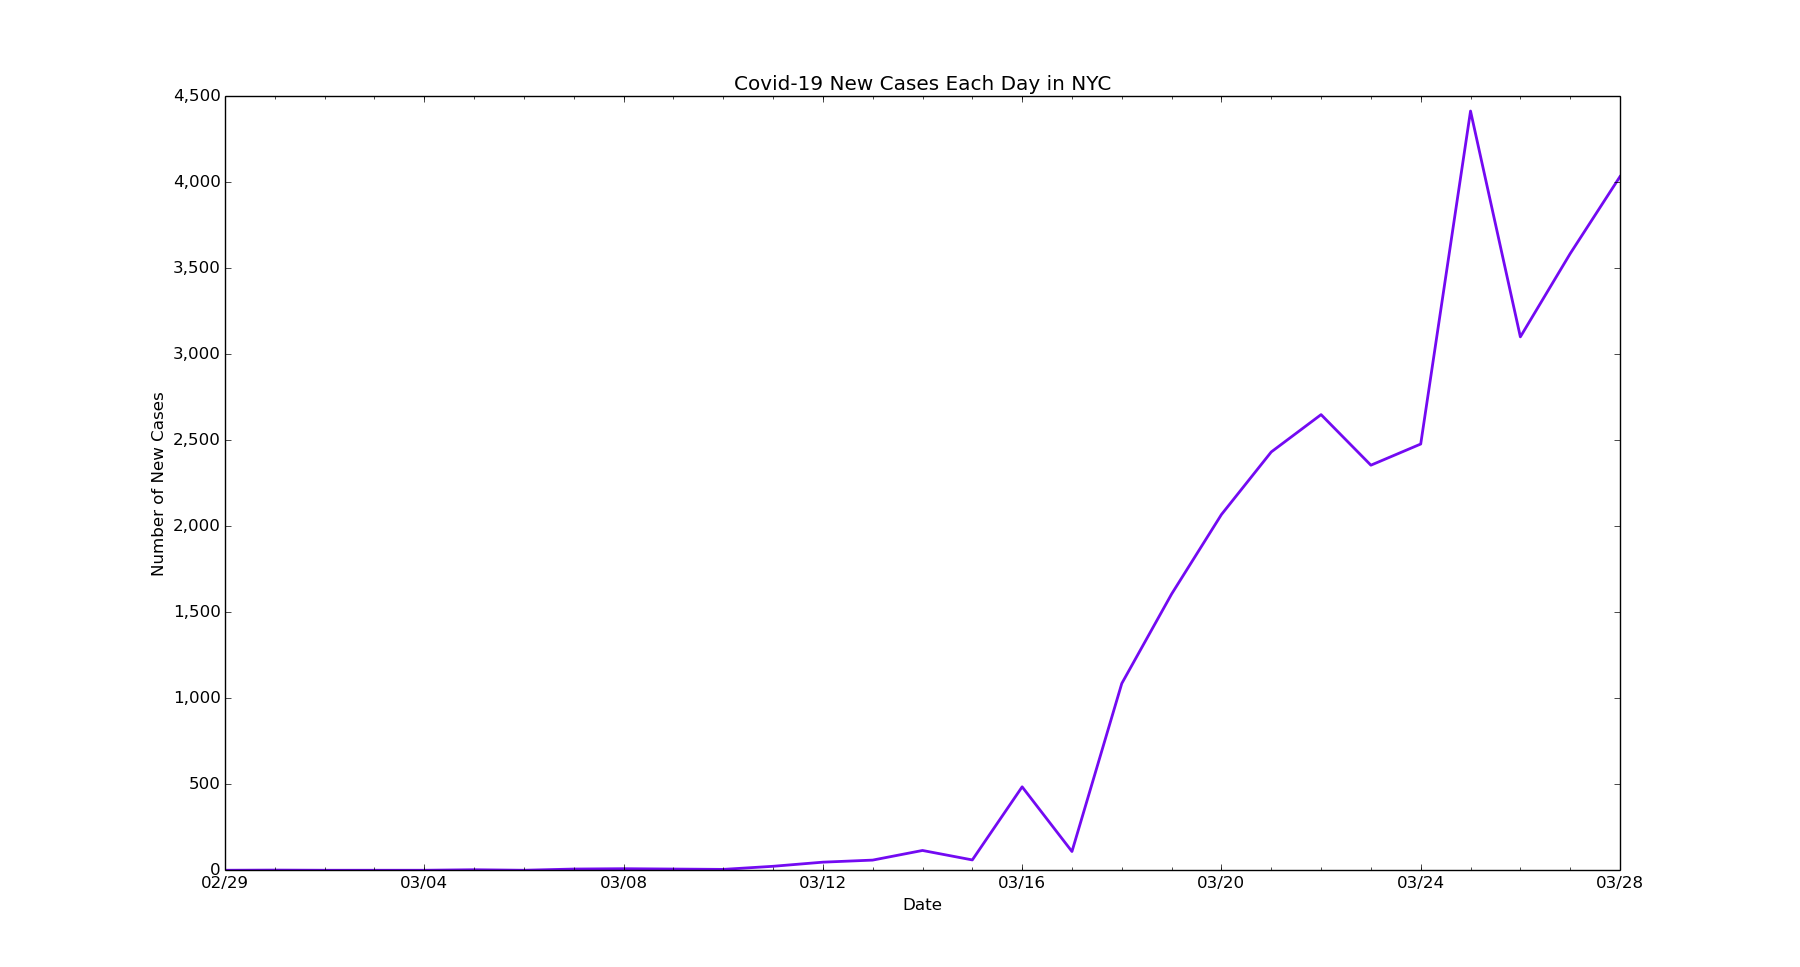
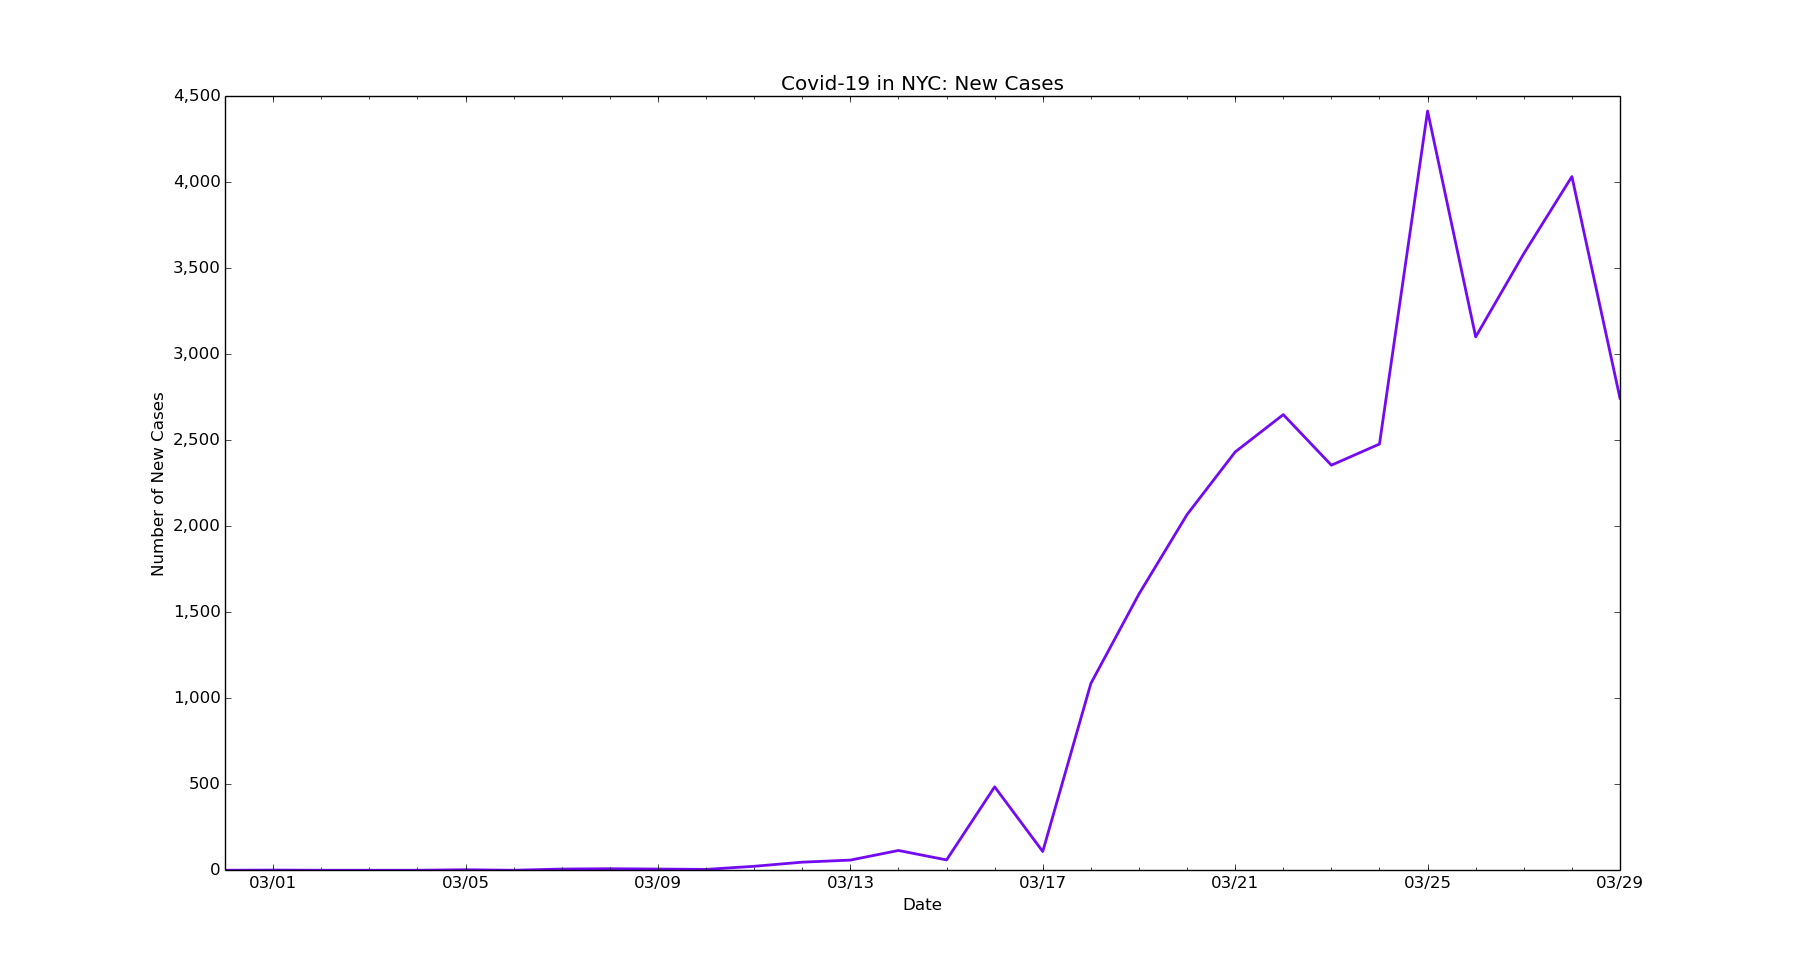
chore: Update NYC data

diff --git a/nyc/nyc-new-cases.py b/nyc/nyc-new-cases.py
@@ -6,7 +6,7 @@ import matplotlib.dates as mdates
 import matplotlib.ticker as ticker
 from matplotlib.dates import MO, TU, WE, TH, FR, SA, SU
 
-dates = ['2/29/2020', '3/1/2020', '3/2/2020', '3/3/2020', '3/4/2020', '3/5/2020', '3/6/2020', '3/7/2020', '3/8/2020', '3/9/2020', '3/10/2020', '3/11/2020', '3/12/2020', '3/13/2020', '3/14/2020', '3/15/2020', '3/16/2020', '3/17/2020', '3/18/2020', '3/19/2020', '3/20/2020', '3/21/2020', '3/22/2020', '3/23/2020', '3/24/2020', '3/25/2020', '3/26/2020', '3/27/2020', '3/28/2020']
+dates = ['2/29/2020', '3/1/2020', '3/2/2020', '3/3/2020', '3/4/2020', '3/5/2020', '3/6/2020', '3/7/2020', '3/8/2020', '3/9/2020', '3/10/2020', '3/11/2020', '3/12/2020', '3/13/2020', '3/14/2020', '3/15/2020', '3/16/2020', '3/17/2020', '3/18/2020', '3/19/2020', '3/20/2020', '3/21/2020', '3/22/2020', '3/23/2020', '3/24/2020', '3/25/2020', '3/26/2020', '3/27/2020', '3/28/2020', '3/29/2020']
 
 # format dates
 x_values = [datetime.datetime.strptime(d, "%m/%d/%Y").date() for d in dates]
@@ -24,10 +24,10 @@ ax.xaxis.set_minor_locator(mdates.WeekdayLocator(byweekday=(MO, TU, WE, TH, FR, 
 ax.get_yaxis().set_major_formatter(ticker.FuncFormatter(lambda x, pos: format(int(x), ',')))
 
 # new cases by day
-new_cases = [0, 1, 0, 0, 0, 3, 0, 7, 9, 7, 5, 23, 47, 59, 115, 60, 485, 109, 1086, 1606, 2068, 2432, 2649, 2355, 2478, 4414, 3101, 3585, 4033]
+new_cases = [0, 1, 0, 0, 0, 3, 0, 7, 9, 7, 5, 23, 47, 59, 115, 60, 485, 109, 1086, 1606, 2068, 2432, 2649, 2355, 2478, 4414, 3101, 3585, 4033, 2744]
 
 # text labels
-plt.title('Covid-19 New Cases Each Day in NYC')
+plt.title('Covid-19 in NYC: New Cases')
 plt.xlabel('Date')
 plt.ylabel('Number of New Cases')
 

diff --git a/nyc/nyc-deaths-new.py b/nyc/nyc-deaths-new.py
@@ -6,7 +6,7 @@ import matplotlib.dates as mdates
 import matplotlib.ticker as ticker
 from matplotlib.dates import MO, TU, WE, TH, FR, SA, SU
 
-dates = ['3/12/2020', '3/13/2020', '3/14/2020', '3/15/2020', '3/16/2020', '3/17/2020', '3/18/2020', '3/19/2020', '3/20/2020', '3/21/2020', '3/22/2020', '3/23/2020', '3/24/2020', '3/25/2020', '3/26/2020', '3/27/2020', '3/28/2020']
+dates = ['3/12/2020', '3/13/2020', '3/14/2020', '3/15/2020', '3/16/2020', '3/17/2020', '3/18/2020', '3/19/2020', '3/20/2020', '3/21/2020', '3/22/2020', '3/23/2020', '3/24/2020', '3/25/2020', '3/26/2020', '3/27/2020', '3/28/2020', '3/29/2020']
 
 # format dates
 x_values = [datetime.datetime.strptime(d, "%m/%d/%Y").date() for d in dates]
@@ -24,10 +24,10 @@ ax.xaxis.set_minor_locator(mdates.WeekdayLocator(byweekday=(MO, TU, WE, TH, FR, 
 ax.get_yaxis().set_major_formatter(ticker.FuncFormatter(lambda x, pos: format(int(x), ',')))
 
 # new deaths by day
-new_deaths = [0, 1, 1, 3, 2, 3, 1, 11, 21, 17, 39, 26, 7, 88, 85, 85, 222]
+new_deaths = [0, 1, 1, 3, 2, 3, 1, 11, 21, 17, 39, 26, 7, 88, 85, 85, 222, 104]
 
 # text labels
-plt.title('Covid-19 New Deaths Daily in NYC')
+plt.title('Covid-19 in NYC: New Fatalities')
 plt.xlabel('Date')
 plt.ylabel('Number of Deaths')
 
